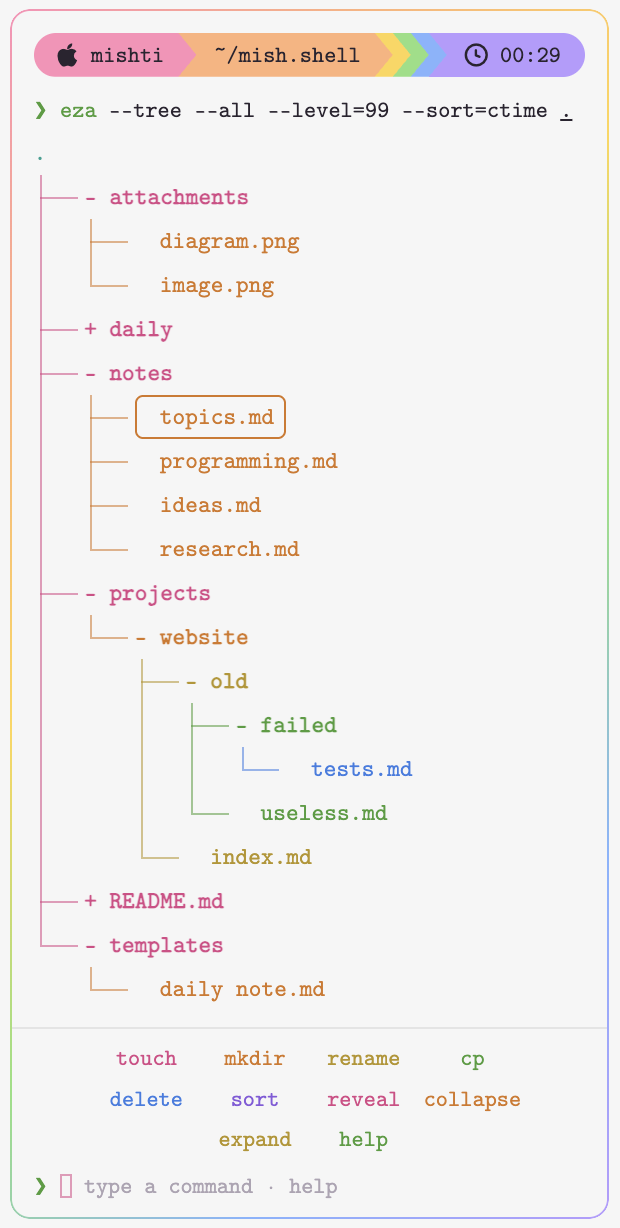
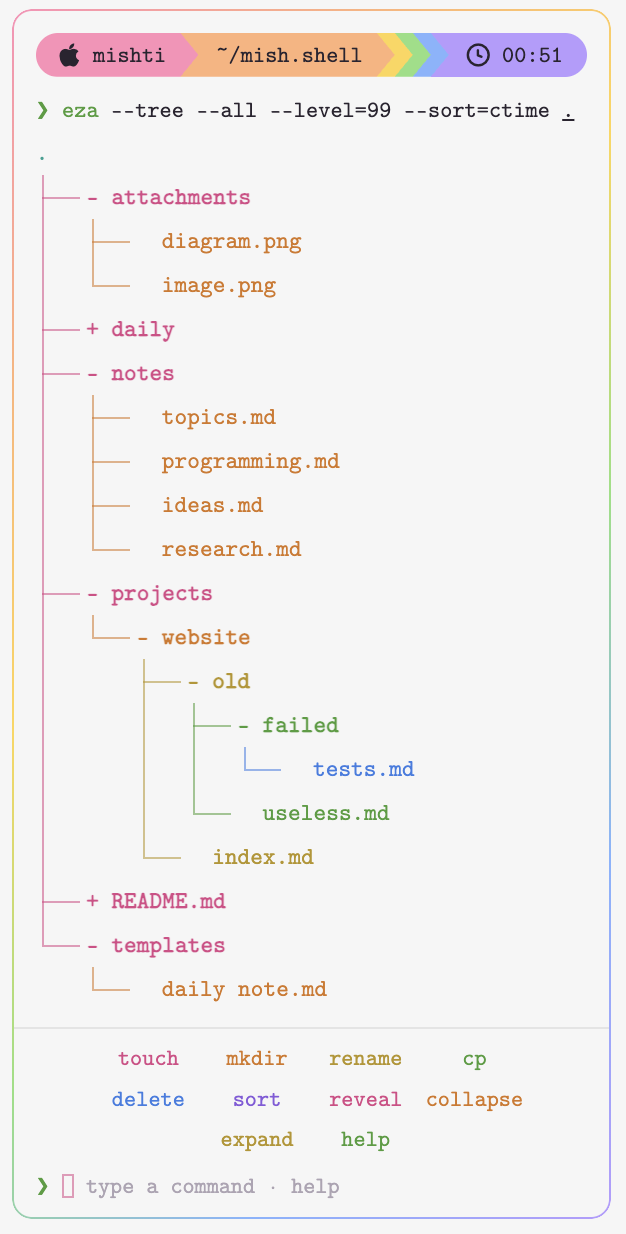
add more images

diff --git a/README.md b/README.md
@@ -114,10 +114,11 @@ type `help` and the tree is replaced by a full guide: every command, every key, 
 ### light or dark
 
 it follows your theme.
+
 <div align="center">
 <table>
 <tr>
-<td align="center"><img src="https://raw.githubusercontent.com/mishtiiikrishnaa/mish.eza/main/docs/screenshots/panel.png" alt="mish.eza in a dark obsidian theme" width="270"><br><sub>dark</sub></td>
+<td align="center"><img src="https://raw.githubusercontent.com/mishtiiikrishnaa/mish.eza/main/docs/screenshots/dark.png" alt="mish.eza in a dark obsidian theme" width="270"><br><sub>dark</sub></td>
 <td align="center"><img src="https://raw.githubusercontent.com/mishtiiikrishnaa/mish.eza/main/docs/screenshots/light.png" alt="mish.eza in a light obsidian theme" width="270"><br><sub>light</sub></td>
 </tr>
 </table>
